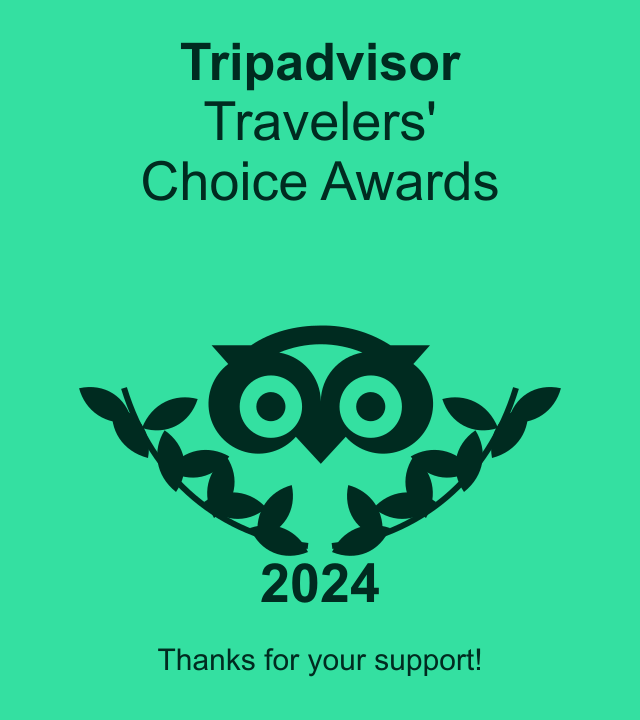
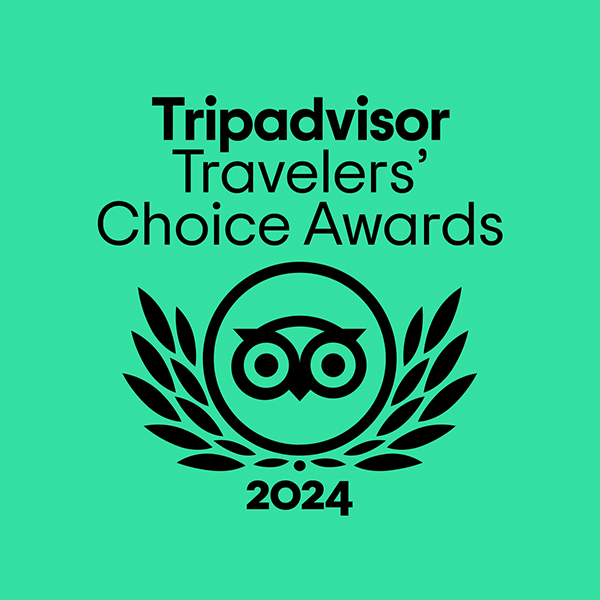
Localize and compact Tripadvisor awards section

Changed region(s): [[0.12, 0.06, 0.87, 0.87], [0.24, 0.9, 0.75, 0.93], [0.24, 0.27, 0.27, 0.3]]

diff --git a/src/app/[locale]/about/page.tsx b/src/app/[locale]/about/page.tsx
@@ -1,14 +1,6 @@
 import type { Metadata } from "next";
 import { getTranslations, setRequestLocale } from "next-intl/server";
-import {
-  ArrowUpRight,
-  Award,
-  CheckCircle2,
-  Heart,
-  Shield,
-  Star,
-  Users,
-} from "lucide-react";
+import { ArrowUpRight, Award, CheckCircle2, Heart, Shield, Star, Users } from "lucide-react";
 import { getPage, getSiteSettings } from "@/lib/api/server";
 import { buildMetadata } from "@/lib/seo";
 import { editorialImages } from "@/lib/editorial-images";
@@ -17,19 +9,13 @@ import { TripAdvisorAwards } from "@/components/site/TripAdvisorAwards";
 import { PageHero } from "@/components/ui/misc";
 import { CmsLink } from "@/components/ui/CmsLink";
 import { Markdown } from "@/components/ui/Markdown";
-import {
-  PageRenderer,
-  hasActiveHero,
-} from "@/components/sections/PageRenderer";
+import { PageRenderer, hasActiveHero } from "@/components/sections/PageRenderer";
 
 type Props = { params: Promise<{ locale: string }> };
 
 export async function generateMetadata({ params }: Props): Promise<Metadata> {
   const { locale } = await params;
-  const [data, t] = await Promise.all([
-    getPage("about", locale),
-    getTranslations({ locale, namespace: "about" }),
-  ]);
+  const [data, t] = await Promise.all([getPage("about", locale), getTranslations({ locale, namespace: "about" })]);
   return buildMetadata({
     locale,
     path: "/about",
@@ -65,11 +51,7 @@ const STATS = [
 export default async function AboutPage({ params }: Props) {
   const { locale } = await params;
   setRequestLocale(locale);
-  const [data, settings, t] = await Promise.all([
-    getPage("about", locale),
-    getSiteSettings(locale),
-    getTranslations("about"),
-  ]);
+  const [data, settings, t] = await Promise.all([getPage("about", locale), getSiteSettings(locale), getTranslations("about")]);
   const page = data?.page;
   const storyImage = page?.heroImage?.url && page.heroImage.resourceType !== "video" ? page.heroImage : editorialImages.road;
 
@@ -77,35 +59,18 @@ export default async function AboutPage({ params }: Props) {
     <>
       {/* HEADER: prefer the admin's hero section, otherwise use the page image. */}
       {data && hasActiveHero(data.sections) ? (
-        <PageRenderer
-          sections={data.sections}
-          settings={settings}
-          part="hero"
-        />
+        <PageRenderer sections={data.sections} settings={settings} part="hero" />
       ) : (
-        <PageHero
-          title={page?.title || t("title")}
-          subtitle={page?.subtitle || t("desc1")}
-          image={storyImage}
-        />
+        <PageHero title={page?.title || t("title")} subtitle={page?.subtitle || t("desc1")} image={storyImage} />
       )}
 
       <section className="bg-surface py-20 sm:py-28">
         <div className="container-page grid items-center gap-14 lg:grid-cols-2 lg:gap-20">
           <div className="relative">
-            <CmsImage
-              media={storyImage}
-              alt={storyImage.alt || page?.title || t("title")}
-              sizes="(min-width: 1024px) 50vw, 100vw"
-              wrapperClassName="aspect-[4/5] rounded-[2.5rem] shadow-card"
-            />
+            <CmsImage media={storyImage} alt={storyImage.alt || page?.title || t("title")} sizes="(min-width: 1024px) 50vw, 100vw" wrapperClassName="aspect-[4/5] rounded-[2.5rem] shadow-card" />
             <div className="absolute inset-x-6 bottom-6 rounded-2xl bg-surface/90 p-6 shadow-card backdrop-blur sm:inset-x-8 sm:bottom-8">
-              <p className="font-display text-xl italic text-brand-soft">
-                {t("heading")}
-              </p>
-              <p className="font-display text-2xl font-semibold uppercase tracking-tight text-gold-600 wrap-anywhere [hyphens:auto] sm:text-3xl">
-                {t("headingHighlight")}
-              </p>
+              <p className="font-display text-xl italic text-brand-soft">{t("heading")}</p>
+              <p className="font-display text-2xl font-semibold uppercase tracking-tight text-gold-600 wrap-anywhere [hyphens:auto] sm:text-3xl">{t("headingHighlight")}</p>
             </div>
           </div>
 
@@ -115,11 +80,7 @@ export default async function AboutPage({ params }: Props) {
               <span className="eyebrow">{t("label")}</span>
             </div>
             <h2 className="mb-8 text-4xl leading-[1.1] text-heading lg:text-5xl">
-              {t("heading")}{" "}
-              <span className="text-forest-600 underline decoration-gold-400 decoration-2 underline-offset-8">
-                {t("headingHighlight")}
-              </span>{" "}
-              {t("headingEnd")}
+              {t("heading")} <span className="text-forest-600 underline decoration-gold-400 decoration-2 underline-offset-8">{t("headingHighlight")}</span> {t("headingEnd")}
             </h2>
             {page?.content ? (
               <Markdown content={page.content} className="mb-10 text-lg" />
@@ -133,14 +94,9 @@ export default async function AboutPage({ params }: Props) {
               {(["item1", "item2", "item3", "item4"] as const).map((k) => (
                 <li key={k} className="flex items-center gap-3">
                   <span className="rounded-full bg-forest-50 p-1">
-                    <CheckCircle2
-                      className="h-4 w-4 text-forest-600"
-                      aria-hidden
-                    />
+                    <CheckCircle2 className="h-4 w-4 text-forest-600" aria-hidden />
                   </span>
-                  <span className="text-sm font-semibold text-ink">
-                    {t(`checklist.${k}`)}
-                  </span>
+                  <span className="text-sm font-semibold text-ink">{t(`checklist.${k}`)}</span>
                 </li>
               ))}
             </ul>
@@ -158,16 +114,9 @@ export default async function AboutPage({ params }: Props) {
       <section className="bg-surface pb-20 sm:pb-28">
         <dl className="container-page grid grid-cols-2 gap-5 lg:grid-cols-4">
           {STATS.map((s) => (
-            <div
-              key={s.key}
-              className="flex min-w-0 flex-col-reverse rounded-4xl border border-sand-200 bg-sand-50 px-3 py-6 text-center sm:p-10"
-            >
-              <dt className="mt-2 text-[0.72rem] font-bold uppercase tracking-[0.08em] text-gold-600 sm:tracking-[0.2em]">
-                {t(`stats.${s.key}`)}
-              </dt>
-              <dd className="font-display text-3xl text-heading sm:text-5xl">
-                {s.value}
-              </dd>
+            <div key={s.key} className="flex min-w-0 flex-col-reverse rounded-4xl border border-sand-200 bg-sand-50 px-3 py-6 text-center sm:p-10">
+              <dt className="mt-2 text-[0.72rem] font-bold uppercase tracking-[0.08em] text-gold-600 sm:tracking-[0.2em]">{t(`stats.${s.key}`)}</dt>
+              <dd className="font-display text-3xl text-heading sm:text-5xl">{s.value}</dd>
             </div>
           ))}
         </dl>
@@ -176,40 +125,26 @@ export default async function AboutPage({ params }: Props) {
       <section className="bg-sand-100 py-20 sm:py-28">
         <ul className="container-page grid gap-6 md:grid-cols-2 lg:grid-cols-3">
           {REASONS.map(({ key, icon: Icon }) => (
-            <li
-              key={key}
-              className="group rounded-[2.5rem] bg-surface p-9 shadow-sm transition-shadow hover:shadow-card"
-            >
+            <li key={key} className="group rounded-[2.5rem] bg-surface p-9 shadow-sm transition-shadow hover:shadow-card">
               <span className="mb-7 flex h-14 w-14 items-center justify-center rounded-2xl bg-forest-50 transition-colors group-hover:bg-forest-800">
-                <Icon
-                  className="h-7 w-7 text-forest-600 transition-colors group-hover:text-gold-400"
-                  aria-hidden
-                />
+                <Icon className="h-7 w-7 text-forest-600 transition-colors group-hover:text-gold-400" aria-hidden />
               </span>
-              <h3 className="mb-3 text-xl text-heading">
-                {t(`reasons.${key}.title`)}
-              </h3>
-              <p className="text-sm leading-relaxed text-muted">
-                {t(`reasons.${key}.desc`)}
-              </p>
+              <h3 className="mb-3 text-xl text-heading">{t(`reasons.${key}.title`)}</h3>
+              <p className="text-sm leading-relaxed text-muted">{t(`reasons.${key}.desc`)}</p>
             </li>
           ))}
         </ul>
       </section>
 
       {settings?.tripadvisor?.awards?.length && !data?.sections.some((section) => section.type === "tripadvisor" && section.enabled !== false) ? (
-        <section className="bg-surface py-12">
-          <div className="container-page"><TripAdvisorAwards awards={settings.tripadvisor.awards} /></div>
+        <section className="bg-linear-to-b from-surface to-sand-50 py-12 sm:py-16">
+          <div className="container-page">
+            <TripAdvisorAwards awards={settings.tripadvisor.awards} title={t("awardsTitle")} description={t("awardsSubtitle")} label={t("awardsLabel")} />
+          </div>
         </section>
       ) : null}
 
-      {data && (
-        <PageRenderer
-          sections={data.sections}
-          settings={settings}
-          part="body"
-        />
-      )}
+      {data && <PageRenderer sections={data.sections} settings={settings} part="body" />}
     </>
   );
 }

diff --git a/src/components/site/TripAdvisorAwards.tsx b/src/components/site/TripAdvisorAwards.tsx
@@ -1,28 +1,61 @@
+import { Award } from "lucide-react";
 import Image from "next/image";
 import { SocialIcons } from "@/components/ui/icons";
 import type { TripAdvisorAward } from "@/types/cms";
 
+const BADGE_SIZES: Record<number, { width: number; height: number }> = {
+  2024: { width: 600, height: 600 },
+  2025: { width: 1830, height: 1930 },
+  2026: { width: 1009, height: 1174 },
+};
+
 /** Only explicitly recorded award years are displayed; the calendar never creates an award. */
-export function TripAdvisorAwards({ awards }: { awards?: TripAdvisorAward[] }) {
+export function TripAdvisorAwards({
+  awards,
+  title,
+  description,
+  label,
+}: {
+  awards?: TripAdvisorAward[];
+  title?: string;
+  description?: string;
+  label?: string;
+}) {
   if (!awards?.length) return null;
   return (
-    <ul aria-label="Tripadvisor awards" className="flex flex-wrap justify-center gap-4">
-      {[...awards].sort((a, b) => a.year - b.year).map((award) => (
-        <li key={`${award.year}-${award.name}`}>
-          <a href={award.sourceUrl} target="_blank" rel="noopener noreferrer" aria-label={`Tripadvisor ${award.name} ${award.year}`} className="flex w-28 flex-col items-center justify-center overflow-hidden text-center text-forest-950 transition-transform hover:-translate-y-1 focus-visible:outline-2 focus-visible:outline-offset-4 focus-visible:outline-forest-800 sm:w-36">
-            {[2024, 2025, 2026].includes(award.year) && /travell?ers.? choice/i.test(award.name) ? (
-              <Image src={`/images/awards/tripadvisor-choice-${award.year}.png`} alt={`Tripadvisor ${award.name} Awards ${award.year}`} width={320} height={360} className="h-auto w-full" unoptimized />
-            ) : (
-              <span className="flex min-h-40 w-full flex-col items-center justify-center bg-[#34e0a1] px-3 py-5">
-                <span className="text-xs font-bold">Tripadvisor</span>
-                <span className="mt-1 text-sm">{award.name}</span>
-                <SocialIcons.tripadvisor className="my-3 h-12 w-12" aria-hidden />
-                <span className="text-xl font-bold">{award.year}</span>
+    <div className="space-y-6">
+      {title && (
+        <div className="mx-auto max-w-2xl text-center">
+          <span className="mx-auto mb-3 flex h-10 w-10 items-center justify-center rounded-xl bg-gold-100 text-gold-600">
+            <Award className="h-6 w-6" aria-hidden />
+          </span>
+          <h2 className="font-display text-2xl text-heading sm:text-3xl">{title}</h2>
+          {description && <p className="mt-2 text-sm leading-relaxed text-muted sm:text-base">{description}</p>}
+        </div>
+      )}
+      <ul aria-label={label || "Tripadvisor awards"} className="flex flex-wrap justify-center gap-4 sm:gap-5">
+        {[...awards].sort((a, b) => a.year - b.year).map((award) => (
+          <li key={`${award.year}-${award.name}`} className="w-32 sm:w-40">
+            <a href={award.sourceUrl} target="_blank" rel="noopener noreferrer" aria-label={`Tripadvisor ${award.name} ${award.year}`} className="group flex h-full flex-col items-center rounded-2xl border border-sand-200 bg-surface p-2 text-center text-forest-950 shadow-sm transition duration-300 hover:-translate-y-1 hover:border-gold-300 hover:shadow-card focus-visible:outline-2 focus-visible:outline-offset-4 focus-visible:outline-forest-800 sm:p-3">
+              <span className="flex w-full flex-1 items-center justify-center overflow-hidden rounded-2xl bg-white">
+                {[2024, 2025, 2026].includes(award.year) && /travell?ers.? choice/i.test(award.name) ? (
+                  <Image src={`/images/awards/tripadvisor-choice-${award.year}.png`} alt={`Tripadvisor ${award.name} Awards ${award.year}`} width={BADGE_SIZES[award.year].width} height={BADGE_SIZES[award.year].height} className="h-auto w-full" unoptimized />
+                ) : (
+                  <span className="flex min-h-40 w-full flex-col items-center justify-center bg-[#34e0a1] px-3 py-5">
+                    <span className="text-xs font-bold">Tripadvisor</span>
+                    <span className="mt-1 text-sm">{award.name}</span>
+                    <SocialIcons.tripadvisor className="my-3 h-12 w-12" aria-hidden />
+                    <span className="text-xl font-bold">{award.year}</span>
+                  </span>
+                )}
               </span>
-            )}
-          </a>
-        </li>
-      ))}
-    </ul>
+              <span className="px-1 pt-2 text-xs font-semibold text-forest-900 transition-colors group-hover:text-gold-700 sm:text-sm">
+                {award.name} · {award.year}
+              </span>
+            </a>
+          </li>
+        ))}
+      </ul>
+    </div>
   );
 }

diff --git a/src/components/sections/TripAdvisorSection.tsx b/src/components/sections/TripAdvisorSection.tsx
@@ -18,9 +18,13 @@ export async function TripAdvisorSection({ section, ctx }: SectionProps) {
   const enabled = ctx.settings?.tripadvisor?.enabled !== false;
   // Switched off in settings: no section at all (the profile link always has something to show)
   const awards = ctx.settings?.tripadvisor?.awards;
-  if (!enabled) return awards?.length ? <Section theme={theme}><TripAdvisorAwards awards={awards} /></Section> : null;
+  if (!enabled) {
+    if (!awards?.length) return null;
+    const tAbout = await getTranslations("about");
+    return <Section theme={theme}><TripAdvisorAwards awards={awards} label={tAbout("awardsLabel")} /></Section>;
+  }
   const tReviews = await getTranslations("reviews");
-  const locale = await getLocale();
+  const [locale, tAbout] = await Promise.all([getLocale(), getTranslations("about")]);
 
   return (
     <Section theme={theme}>
@@ -46,7 +50,7 @@ export async function TripAdvisorSection({ section, ctx }: SectionProps) {
           <p className="-mt-6 text-small text-muted">{ctx.settings.tripadvisor.ratingText}</p>
         ) : null}
 
-        <TripAdvisorAwards awards={awards} />
+        <TripAdvisorAwards awards={awards} label={tAbout("awardsLabel")} />
 
         {/* LATEST REVIEWS */}
         {tripAdvisor?.reviews?.length ? (

diff --git a/public/images/awards/README.md b/public/images/awards/README.md
@@ -1,1 +1,5 @@
-Badge presentation based on the business owner's supplied reference, using the existing site Tripadvisor owl vector. These are website/email presentation assets, not certificate scans. The owner confirmed awards from 2024; the public listing separately confirms 2026.
+# Tripadvisor award artwork
+
+Published copies of the original year-specific Tripadvisor Travelers' Choice artwork replace the previously redrawn presentation badges. No year labels, logos, colors or layouts have been redrawn. The 2026 asset uses the centered green arch lockup. Original aspect ratios and transparency are preserved.
+
+Source URLs, conversion notes, pixel dimensions and checksums are recorded in [sources.json](sources.json). These copies were obtained from award-recipient publishers, not from a signed-in Tripadvisor Management Center. The artwork is generic; the owner's confirmation of this business's award years is separately recorded in the backend content manifest.
